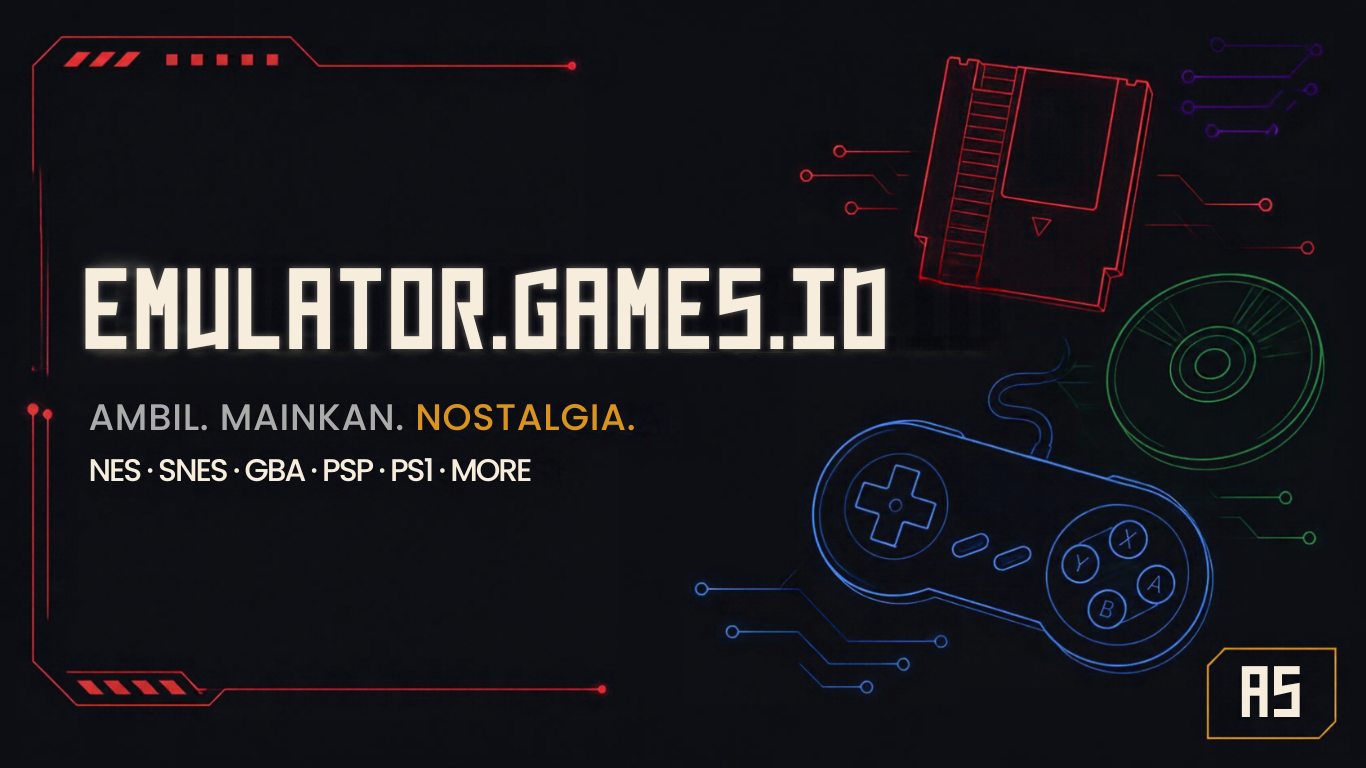
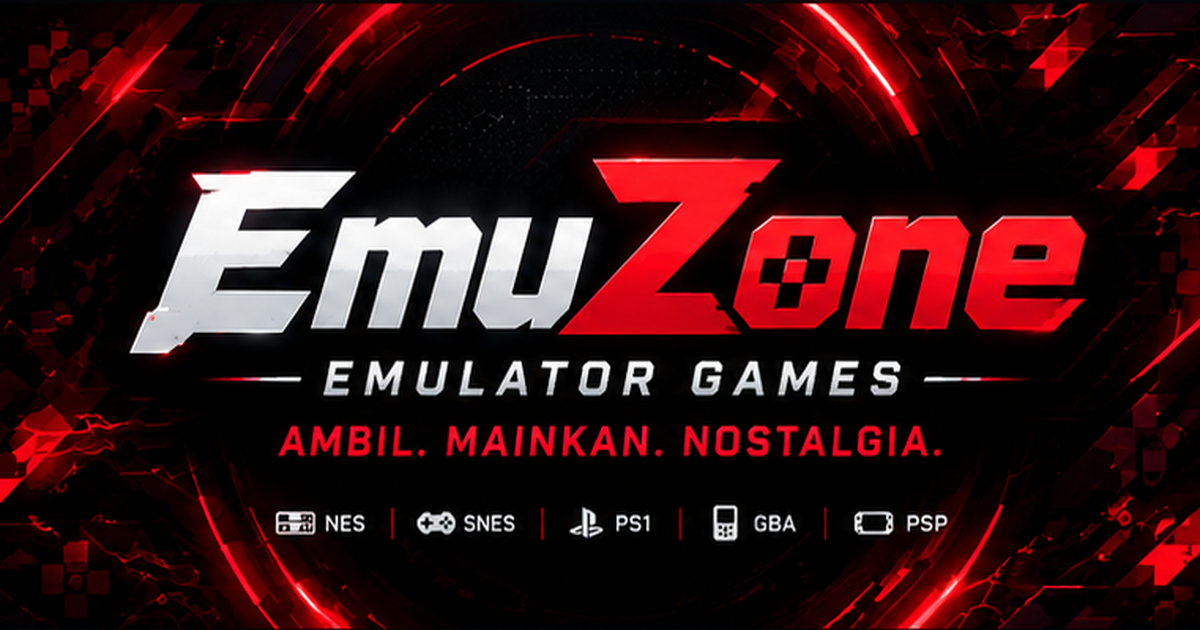
Rename project to emuzone

diff --git a/index.html b/index.html
@@ -3,21 +3,21 @@
 <head>
 <meta charset="UTF-8">
 <meta name="viewport" content="width=device-width, initial-scale=1.0">
-<title>Emulator Games ID — Ambil, Mainkan, Nostalgia</title>
+<title>EmuZone — Ambil, Mainkan, Nostalgia</title>
 <meta name="description" content="Temukan game emulator klasik NES, SNES, PS1, GBA, PSP, dan konsol lainnya. Koleksi game, screenshot, emulator, dan resource dalam satu tempat.">
 <meta name="robots" content="index, follow">
 <meta name="theme-color" content="#1c1b1f">
-<link rel="canonical" href="https://emulator-games-id.pages.dev/">
-<meta property="og:title" content="Emulator Games ID — Ambil, Mainkan, Nostalgia">
+<link rel="canonical" href="https://emuzone.pages.dev/">
+<meta property="og:title" content="EmuZone — Ambil, Mainkan, Nostalgia">
 <meta property="og:description" content="Koleksi game emulator klasik, screenshot, emulator, dan resource dalam satu tempat.">
-<meta property="og:image" content="https://emulator-games-id.pages.dev/assets/image/og-image.png">
-<meta property="og:url" content="https://emulator-games-id.pages.dev/">
+<meta property="og:image" content="https://emuzone.pages.dev/assets/image/og-image.png">
+<meta property="og:url" content="https://emuzone.pages.dev/">
 <meta property="og:type" content="website">
-<meta property="og:site_name" content="Emulator Games ID">
+<meta property="og:site_name" content="EmuZone">
 <meta name="twitter:card" content="summary_large_image">
-<meta name="twitter:title" content="Emulator Games ID — Ambil, Mainkan, Nostalgia">
+<meta name="twitter:title" content="EmuZone — Ambil, Mainkan, Nostalgia">
 <meta name="twitter:description" content="Koleksi game emulator klasik, screenshot, emulator, dan resource dalam satu tempat.">
-<meta name="twitter:image" content="https://emulator-games-id.pages.dev/assets/image/og-image.png">
+<meta name="twitter:image" content="https://emuzone.pages.dev/assets/image/og-image.png">
 <link rel="icon" href="assets/image/favicon.png">
 <link rel="preconnect" href="https://fonts.googleapis.com">
 <link href="https://fonts.googleapis.com/css2?family=Press+Start+2P&family=Space+Grotesk:wght@400;500;600;700&family=JetBrains+Mono:wght@400;500&display=swap" rel="stylesheet">
@@ -32,7 +32,7 @@
 <body>
 
 <header>
-  <div class="logo">EMULATOR<span>.</span>GAMES<span>.</span>ID</div>
+  <div class="logo">EmuZone<span>.</span>ID</div>
 
   <!-- Badge dipisah keluar, jadi dia di kiri -->
   <div class="stat-badge" id="totalGamesBadge" style="display:none;">
@@ -70,12 +70,12 @@
 <section class="hero">
   <div class="eyebrow">// koleksi rom & emulator siap main</div>
   <h1>AMBIL. MAINKAN.<br><span class="accent">NOSTALGIA.</span></h1>
-  <p><b>Emulator Games ID</b> bukan sekadar tempat download ROM, tetapi pusat informasi dan resource game emulator yang menghubungkan berbagai karya komunitas dalam satu halaman.</p>
+  <p><b>EmuZone</b> bukan sekadar tempat download ROM, tetapi pusat informasi dan resource game emulator yang menghubungkan berbagai karya komunitas dalam satu halaman.</p>
   <div class="ticker-wrap">
     <div class="ticker-head"><span><span class="dot"></span>channel status</span><span>live</span></div>
     <div class="ticker">
       <div class="ticker-track">
-        <b>305</b> followers &nbsp;•&nbsp; <b>84.9%</b> dari Indonesia &nbsp;•&nbsp; <b>213</b> akun ke-reach 30 hari terakhir &nbsp;•&nbsp; request game lewat WA, dijawab langsung &nbsp;•&nbsp;
+        <b>333</b> followers &nbsp;•&nbsp; <b>93%</b> dari Indonesia &nbsp;•&nbsp; <b>158</b> akun ke-reach 30 hari terakhir &nbsp;•&nbsp; Channel mulai aktif kembali &nbsp;•&nbsp; request game lewat WA, dijawab langsung &nbsp;
       </div>
     </div>
   </div>
@@ -118,10 +118,10 @@
 <div class="modal-overlay welcome-overlay" id="welcomeOverlay" role="dialog" aria-modal="true" aria-labelledby="welcomeTitle">
   <div class="modal-card welcome-card">
     <div class="modal-body welcome-body">
-      <div class="welcome-kicker">EMULATOR GAMES ID</div>
-      <h2 id="welcomeTitle">Tentang Emulator Games ID</h2>
-      <p>Emulator Games ID dibuat sebagai tempat sederhana untuk menemukan dan mengakses game emulator dalam satu tempat.</p>
-      <p>Website ini juga merupakan lanjutan dari Channel WhatsApp <a href="https://whatsapp.com/channel/0029Vb40CwnL2ATxKtEIm046" target="_blank" rel="noopener">Emulator Games ID</a>, yang sebelumnya sudah lama tidak aktif dan tidak terurus. Website ini dibuat sebagai langkah untuk menghidupkan kembali project tersebut secara bertahap.</p>
+      <div class="welcome-kicker">EmuZone</div>
+      <h2 id="welcomeTitle">Tentang EmuZone</h2>
+      <p>EmuZone dibuat sebagai tempat sederhana untuk menemukan dan mengakses game emulator dalam satu tempat.</p>
+      <p>Website ini juga merupakan lanjutan dari Channel WhatsApp <a href="https://whatsapp.com/channel/0029Vb40CwnL2ATxKtEIm046" target="_blank" rel="noopener">EmuZone</a>, yang sebelumnya sudah lama tidak aktif dan tidak terurus. Website ini dibuat sebagai langkah untuk menghidupkan kembali project tersebut secara bertahap.</p>
       <h3>Status Project</h3>
       <p>Website ini masih dalam tahap pengembangan. Beberapa fitur dan konten mungkin belum tersedia dan akan ditambahkan secara bertahap. Kami akan terus mengembangkan website ini sedikit demi sedikit. Terima kasih sudah berkunjung dan mendukung project ini.</p>
       <label class="session-choice"><input type="checkbox" id="welcomeSessionCheck"> <span>Jangan tampilkan lagi di sesi ini</span></label>

diff --git a/game.html b/game.html
@@ -3,23 +3,23 @@
 <head>
 <meta charset="UTF-8">
 <meta name="viewport" content="width=device-width, initial-scale=1.0">
-<title>Loading... — Emulator Games ID</title>
+<title>Loading... — EmuZone</title>
 <meta id="metaDesc" name="description" content="Koleksi game emulator klasik, siap main.">
 <meta name="robots" content="index, follow">
 <meta name="theme-color" content="#1c1b1f">
-<link id="canonicalUrl" rel="canonical" href="https://emulator-games-id.pages.dev/game.html">
+<link id="canonicalUrl" rel="canonical" href="https://emuzone.pages.dev/game.html">
 
-<meta id="ogTitle" property="og:title" content="Emulator Games ID">
+<meta id="ogTitle" property="og:title" content="EmuZone">
 <meta id="ogDesc" property="og:description" content="Koleksi game emulator klasik, siap main.">
-<meta id="ogImage" property="og:image" content="https://emulator-games-id.pages.dev/assets/image/og-image.png">
-<meta id="ogUrl" property="og:url" content="https://emulator-games-id.pages.dev/game.html">
-<meta property="og:site_name" content="Emulator Games ID">
+<meta id="ogImage" property="og:image" content="https://emuzone.pages.dev/assets/image/og-image.png">
+<meta id="ogUrl" property="og:url" content="https://emuzone.pages.dev/game.html">
+<meta property="og:site_name" content="EmuZone">
 <meta property="og:type" content="website">
 
 <meta name="twitter:card" content="summary_large_image">
-<meta id="twTitle" name="twitter:title" content="Emulator Games ID">
+<meta id="twTitle" name="twitter:title" content="EmuZone">
 <meta id="twDesc" name="twitter:description" content="Koleksi game emulator klasik, siap main.">
-<meta id="twImage" name="twitter:image" content="https://emulator-games-id.pages.dev/assets/image/og-image.png">
+<meta id="twImage" name="twitter:image" content="https://emuzone.pages.dev/assets/image/og-image.png">
 <link rel="icon" href="assets/image/favicon.png">
 <link rel="preconnect" href="https://fonts.googleapis.com">
 <link href="https://fonts.googleapis.com/css2?family=Press+Start+2P&family=Space+Grotesk:wght@400;500;600;700&family=JetBrains+Mono:wght@400;500&display=swap" rel="stylesheet">
@@ -35,7 +35,7 @@
 <body>
 
 <header>
-  <a class="logo" href="index.html" style="text-decoration:none;">EMULATOR<span>.</span>GAMES<span>.</span>ID</a>
+  <a class="logo" href="index.html" style="text-decoration:none;">EmuZone<span>.</span>ID</a>
   <div class="header-actions">
     <!-- Tombol WA dengan Ikon SVG -->
     <a class="wa-btn" href="https://whatsapp.com/channel/0029Vb40CwnL2ATxKtEIm046" target="_blank" rel="noopener">

diff --git a/js/game.js b/js/game.js
@@ -11,13 +11,13 @@ function absoluteUrl(value){
 
 function setFallbackSocialMetadata(){
   const fallback = absoluteUrl(DEFAULT_OG_IMAGE);
-  document.title = "Game Tidak Ditemukan — Emulator Games ID";
-  document.getElementById("metaDesc")?.setAttribute("content", "Game yang dicari tidak ditemukan di Emulator Games ID.");
-  document.getElementById("ogTitle")?.setAttribute("content", "Emulator Games ID");
+  document.title = "Game Tidak Ditemukan — EmuZone";
+  document.getElementById("metaDesc")?.setAttribute("content", "Game yang dicari tidak ditemukan di EmuZone.");
+  document.getElementById("ogTitle")?.setAttribute("content", "EmuZone");
   document.getElementById("ogDesc")?.setAttribute("content", "Koleksi game emulator klasik, siap main.");
   document.getElementById("ogImage")?.setAttribute("content", fallback);
   document.getElementById("ogUrl")?.setAttribute("content", window.location.href);
-  document.getElementById("twTitle")?.setAttribute("content", "Emulator Games ID");
+  document.getElementById("twTitle")?.setAttribute("content", "EmuZone");
   document.getElementById("twDesc")?.setAttribute("content", "Koleksi game emulator klasik, siap main.");
   document.getElementById("twImage")?.setAttribute("content", fallback);
   document.getElementById("canonicalUrl")?.setAttribute("href", window.location.href);
@@ -283,7 +283,7 @@ function render(game, id){
     .slice(0, 155);
   const shareImage = g.cover || g.banner || "assets/image/favicon.png";
 
-  document.title = `${g.title} — Emulator Games ID`;
+  document.title = `${g.title} — EmuZone`;
   document.getElementById("metaDesc").setAttribute("content", shortDesc);
 
   document.getElementById("ogTitle").setAttribute("content", g.title);
@@ -413,7 +413,7 @@ function setupShareModal(g){
   const card = document.getElementById("shareCard");
   const fab = document.getElementById("shareFab");
   const url = location.href;
-  const text = g.title ? `${g.title} — Emulator Games ID` : document.title;
+  const text = g.title ? `${g.title} — EmuZone` : document.title;
 
   document.getElementById("shareWaBtn").href = `https://wa.me/?text=${encodeURIComponent(text + "\n" + url)}`;
   document.getElementById("shareTgBtn").href = `https://t.me/share/url?url=${encodeURIComponent(url)}&text=${encodeURIComponent(text)}`;

diff --git a/roadmap.html b/roadmap.html
@@ -3,8 +3,8 @@
 <head>
 <meta charset="UTF-8">
 <meta name="viewport" content="width=device-width, initial-scale=1.0">
-<title>Roadmap — Emulator Games ID</title>
-<meta name="description" content="Roadmap internal Emulator Games ID.">
+<title>Roadmap — EmuZone</title>
+<meta name="description" content="Roadmap internal EmuZone.">
 <link rel="icon" href="assets/image/favicon.png">
 <link rel="preconnect" href="https://fonts.googleapis.com">
 <link href="https://fonts.googleapis.com/css2?family=Press+Start+2P&family=Space+Grotesk:wght@400;500;600;700&family=JetBrains+Mono:wght@400;500&display=swap" rel="stylesheet">
@@ -32,7 +32,7 @@
     <div class="roadmap-heading-row">
       <div>
         <h1>PROJECT ROADMAP.</h1>
-        <p>Catatan pengembangan Emulator Games ID.</p>
+        <p>Catatan pengembangan EmuZone.</p>
       </div>
       <div class="roadmap-actions" id="roadmapActions">
         <button class="outline-btn" id="exportRoadmapBtn" type="button">📋 Export</button>

diff --git a/js/error-modal.js b/js/error-modal.js
@@ -1,6 +1,6 @@
 /* ============================================================
    ERROR MODAL — Reusable standalone
-   Author: Emulator Games ID
+   Author: EmuZone
    Deps:   css/error-modal.css (wajib di-include)
    Usage:  showErrorModal(404);
            showErrorModal(500);
@@ -87,7 +87,7 @@
     card.style.setProperty("--err-accent-rgb", cfg.accentRgb);
 
     // Update title browser (biar gak nyangkut "Loading...")
-    document.title = `${code} — ${cfg.title} | Emulator Games ID`;
+    document.title = `${code} — ${cfg.title} | EmuZone`;
 
     // Update meta description kalau ada
     const metaDesc = document.getElementById("metaDesc");

diff --git a/Login.html b/Login.html
@@ -4,7 +4,7 @@
 <meta charset="UTF-8">
 <meta name="viewport" content="width=device-width, initial-scale=1.0">
 
-<title>Admin Login • Emulator Games ID</title>
+<title>Admin Login • EmuZone</title>
 <meta name="robots" content="noindex,nofollow">
 <link rel="icon" href="assets/image/favicon.png">
 <link rel="preconnect" href="https://fonts.googleapis.com">

diff --git a/css/error-modal.css b/css/error-modal.css
@@ -1,6 +1,6 @@
 /* ============================================================
    ERROR MODAL — Reusable standalone modal
-   Author: Emulator Games ID
+   Author: EmuZone
    Usage:  <link rel="stylesheet" href="css/error-modal.css">
            <script src="js/error-modal.js"></script>
            showErrorModal(404 | 500 | 403);

diff --git a/js/markdown.js b/js/markdown.js
@@ -1,6 +1,6 @@
 /**
  * ============================================================
- * Emulator Games ID Markdown Parser
+ * EmuZone Markdown Parser
  * ------------------------------------------------------------
  * Version : 1.0.0
  * Author  : AsherMod

diff --git a/editor.html b/editor.html
@@ -6,7 +6,7 @@
 <meta charset="UTF-8">
 <meta name="viewport" content="width=device-width, initial-scale=1.0">
 
-<title>Editor • Emulator Games ID</title>
+<title>Editor • EmuZone</title>
 
 <link rel="icon" href="assets/image/favicon.png">
 

diff --git a/CHANGELOG.md b/CHANGELOG.md
@@ -1,5 +1,15 @@
 # Changelog
 
+## 2026-10-06
+
+### Changed
+- Mengganti nama project dari `Emulator Games ID` menjadi `EmuZone.ID`.
+- Mengganti URL website menjadi `https://emuzone.pages.dev/`.
+- Memperbarui branding website dan metadata terkait ke identitas `EmuZone`.
+- Mengganti favicon dan `og-image`.
+- Memperbarui nama, profile, deskripsi, dan format share pada channel.
+- Memperbarui status channel menjadi aktif kembali.
+
 ## 2026-10-03
 
 ### Added
